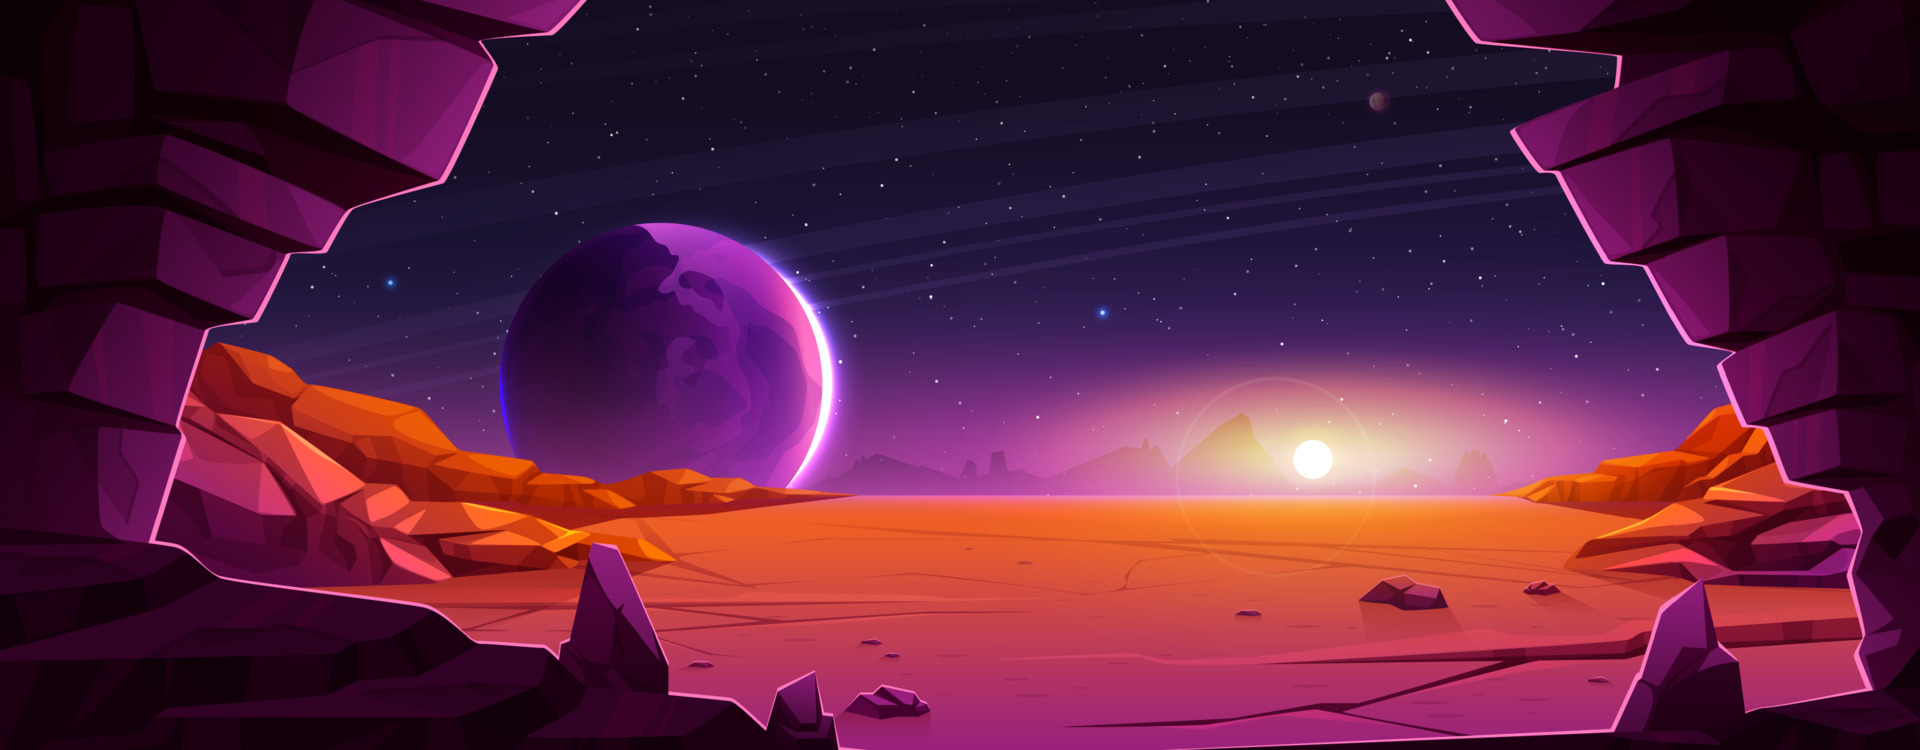
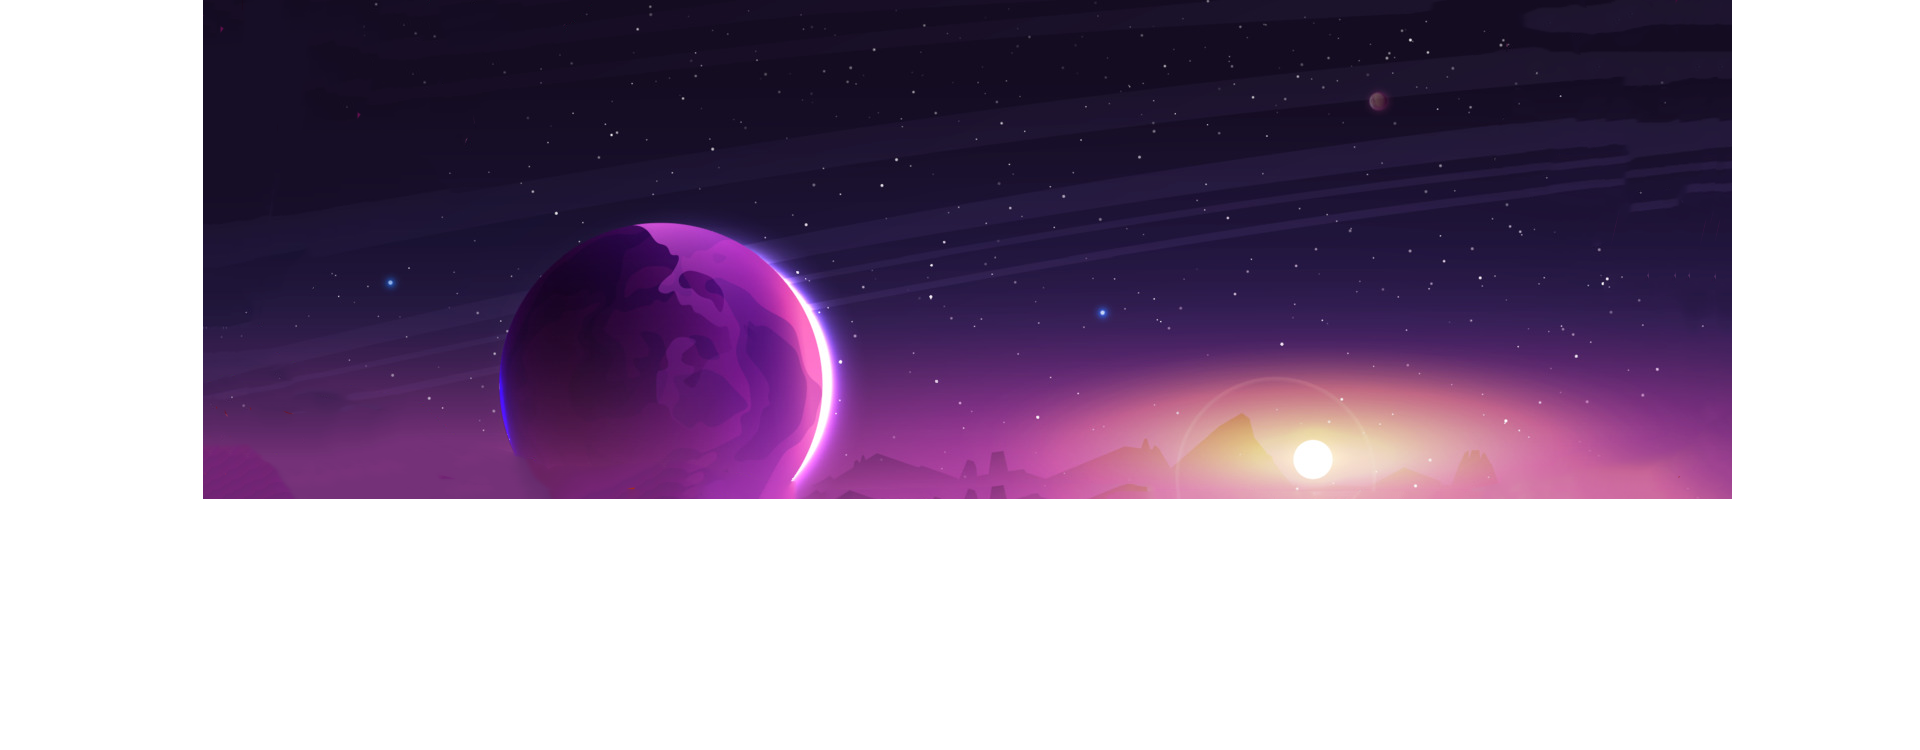
Efeito Parallax
- Ajustes de layers
- Finalização do CSS
- Script do efeito Parallax

diff --git a/src/index.html b/src/index.html
@@ -14,52 +14,81 @@
     <link rel="stylesheet" href="./styles/index.css" />
   </head>
   <body>
-    <div class="background-image">
-      <img src="./assets/bg-desktop-dark.jpg" />
-    </div>
-    <div class="container">
-      <div class="header">
-        <div class="header__title">TODO</div>
-        <div class="header__theme">
-          <img src="./assets/icon-sun.svg" />
+    <header class="main-header">
+      <div class="layers">
+        <div class="layer__header">
+          <div class="layers__title">Cosmic TODO</div>
+          <div class="layers__caption">Por Álisson</div>
         </div>
+        <div
+          class="layer layers__base"
+          style="background-image: url(./assets/img/layer-base.jpg)"
+        ></div>
+        <div
+          class="layer layers__middle"
+          style="background-image: url(./assets/img/layer-middle.jpg)"
+        ></div>
+        <div
+          class="layer layers__front"
+          style="background-image: url(./assets/img/layer-front.jpg)"
+        ></div>
       </div>
-      <div class="new-todo">
-        <div class="check">
-          <div class="check__mark"></div>
-        </div>
-        <div class="new-todo__input">
-          <div class="row">
-            <input
-              id="todo-input"
-              type="text"
-              placeholder="Create a new todo..."
-            />
-            <button class="input__button" onclick="addTodoItem()">Add</button>
+    </header>
+
+    <article
+      class="main-article"
+      style="
+        background-image: url(./assets/img/cave-interior-with-sunlight.jpg);
+      "
+    >
+      <div class="main-article__content">
+        <div class="main">
+          <div class="container">
+            <div class="header">
+              <div class="header__title">TODO</div>
+            </div>
+            <div class="new-todo">
+              <div class="check">
+                <div class="check__mark"></div>
+              </div>
+              <div class="new-todo__input">
+                <div class="row">
+                  <input
+                    id="todo-input"
+                    type="text"
+                    placeholder="Create a new todo..."
+                  />
+                  <button class="input__button" onclick="addTodoItem()">
+                    Add
+                  </button>
+                </div>
+              </div>
+            </div>
+            <div class="todo-items__wrapper">
+              <ul id="todo-container">
+                <!--
+                <li class="checked">Task 1</li>
+                <li>Task 3</li>
+                <li>Task 2</li> 
+                -->
+              </ul>
+              <div class="todo-items__info">
+                <div class="items-left">0 items left</div>
+                <div class="items-statuses">
+                  <span class="active">All</span>
+                  <span>Active</span>
+                  <span>Checked</span>
+                </div>
+                <div class="items-clear">
+                  <span>Clear Completed</span>
+                </div>
+              </div>
+            </div>
           </div>
         </div>
       </div>
-      <div class="todo-items__wrapper">
-        <ul id="todo-container">
-          <!--
-          <li class="checked">Task 1</li>
-          <li>Task 3</li>
-          <li>Task 2</li> 
-          -->
-        </ul>
-        <div class="todo-items__info">
-          <div class="items-left">0 items left</div>
-          <div class="items-statuses">
-            <span class="active">All</span>
-            <span>Active</span>
-            <span>Checked</span>
-          </div>
-          <div class="items-clear">
-            <span>Clear Completed</span>
-          </div>
-        </div>
-      </div>
-    </div>
+    </article>
+
     <script src="./js/index.js"></script>
   </body>
 </html>

diff --git a/src/styles/index.css b/src/styles/index.css
@@ -4,28 +4,122 @@
   box-sizing: border-box;
 }
 
+:root {
+  --index: calc(1vw + 1vh);
+}
+
 body {
+  color: #fff;
+  background-color: hsl(235, 21%, 11%);
+  font-family: "Josefin Sans", sans-serif;
+  line-height: 1.55;
+}
+
+.main-header {
+  position: relative;
+}
+
+.main-header::after {
+  content: "";
+  position: absolute;
+  z-index: 100;
+  width: 100%;
+  height: calc(var(--index) * 1);
+  background-image: url("../assets/img/ground.jpg");
+  background-size: cover;
+  background-repeat: no-repeat;
+  background-position: center;
+  bottom: calc(var(--index) * -5);
+}
+
+.layers {
+  height: 100vh;
+  display: flex;
+  align-items: center;
+  justify-content: center;
+  text-align: center;
+  overflow: hidden;
+  position: relative;
+}
+
+.layer {
+  height: 100%;
+  width: 100%;
+  position: absolute;
+  background-size: cover;
+  background-position: center;
+  will-change: transform;
+  z-index: 2;
+}
+
+.layers__base {
+  transform: translate3d(0, calc(var(--scrollTop) / 1.6), 0);
+  z-index: 0;
+}
+
+.layers__middle {
+  transform: translate3d(0, calc(var(--scrollTop) / 2.5), 0);
+}
+
+.layers__front {
+  transform: translate3d(0, calc(var(--scrollTop) / 5.7), 0);
+}
+
+.layer__header {
+  z-index: 1;
+  transform: translate3d(0, calc(var(--scrollTop) / 2), 0);
+  will-change: transform;
+  text-transform: uppercase;
+  font-weight: 700;
+  color: #111111;
+  text-shadow: 0 0 15px #ecd4ac;
+}
+
+.layers__title {
+  font-size: calc(var(--index) * 2.5);
+  letter-spacing: calc(var(--index) / 2);
+}
+
+.layers__caption {
+  font-size: calc(var(--index) / 1.175);
+  letter-spacing: calc(var(--index) / 3.5);
+  margin-top: calc(var(--index) * -0.75);
+}
+
+.main-article {
+  --main-article-transform: translate3d(0, calc(var(--scrollTop) / -7.5), 0);
+  min-height: 100vh;
+  background-size: cover;
+  background-position: center;
+  color: hsl(234, 39%, 85%);
+  display: flex;
+  justify-content: center;
+  align-items: center;
+  position: relative;
+  text-align: center;
+  padding-bottom: 1rem;
+}
+
+.main-article__header {
+  text-transform: uppercase;
+  font-size: calc(var(--index) * 1.8);
+  letter-spacing: calc(var(--index) / 7.5);
+  transform: var(--main-article-transform);
+  will-change: transform;
+}
+
+.main-article__paragraph {
+  max-width: calc(var(--index) * 28);
+  font-size: calc(var(--index) * 0.9);
+  margin-top: calc(var(--index) * 2);
+  transform: var(--main-article-transform);
+  will-change: transform;
+}
+
+.main {
   display: flex;
   font-size: 1.125rem;
   justify-content: center;
-  background-color: hsl(235, 21%, 11%);
-  font-family: "Josefin Sans", sans-serif;
-}
-
-.background-image {
-  position: absolute;
-  top: 0;
-  left: 0;
-  right: 0;
-  height: 350px;
-  z-index: -1;
-}
-
-.background-image img {
-  width: 100%;
-  height: 100%;
-  object-fit: cover;
-  object-position: left;
 }
 
 .container {
@@ -38,7 +132,7 @@ body {
 .header {
   display: flex;
   align-items: center;
-  justify-content: space-between;
+  justify-content: center;
 }
 
 .header__title {

diff --git a/src/js/index.js b/src/js/index.js
@@ -113,6 +113,12 @@ function showTask() {
   todoContainer.innerHTML = localStorage.getItem('data');
 }
 
+// Parallax Script
+window.addEventListener('scroll', e => {
+  document.body.style.cssText = `--scrollTop: ${this.scrollY}px`
+})
+
+
 showTask();
 updateItemsLeft();
 setInterval(updateItemsLeft, 1000);
